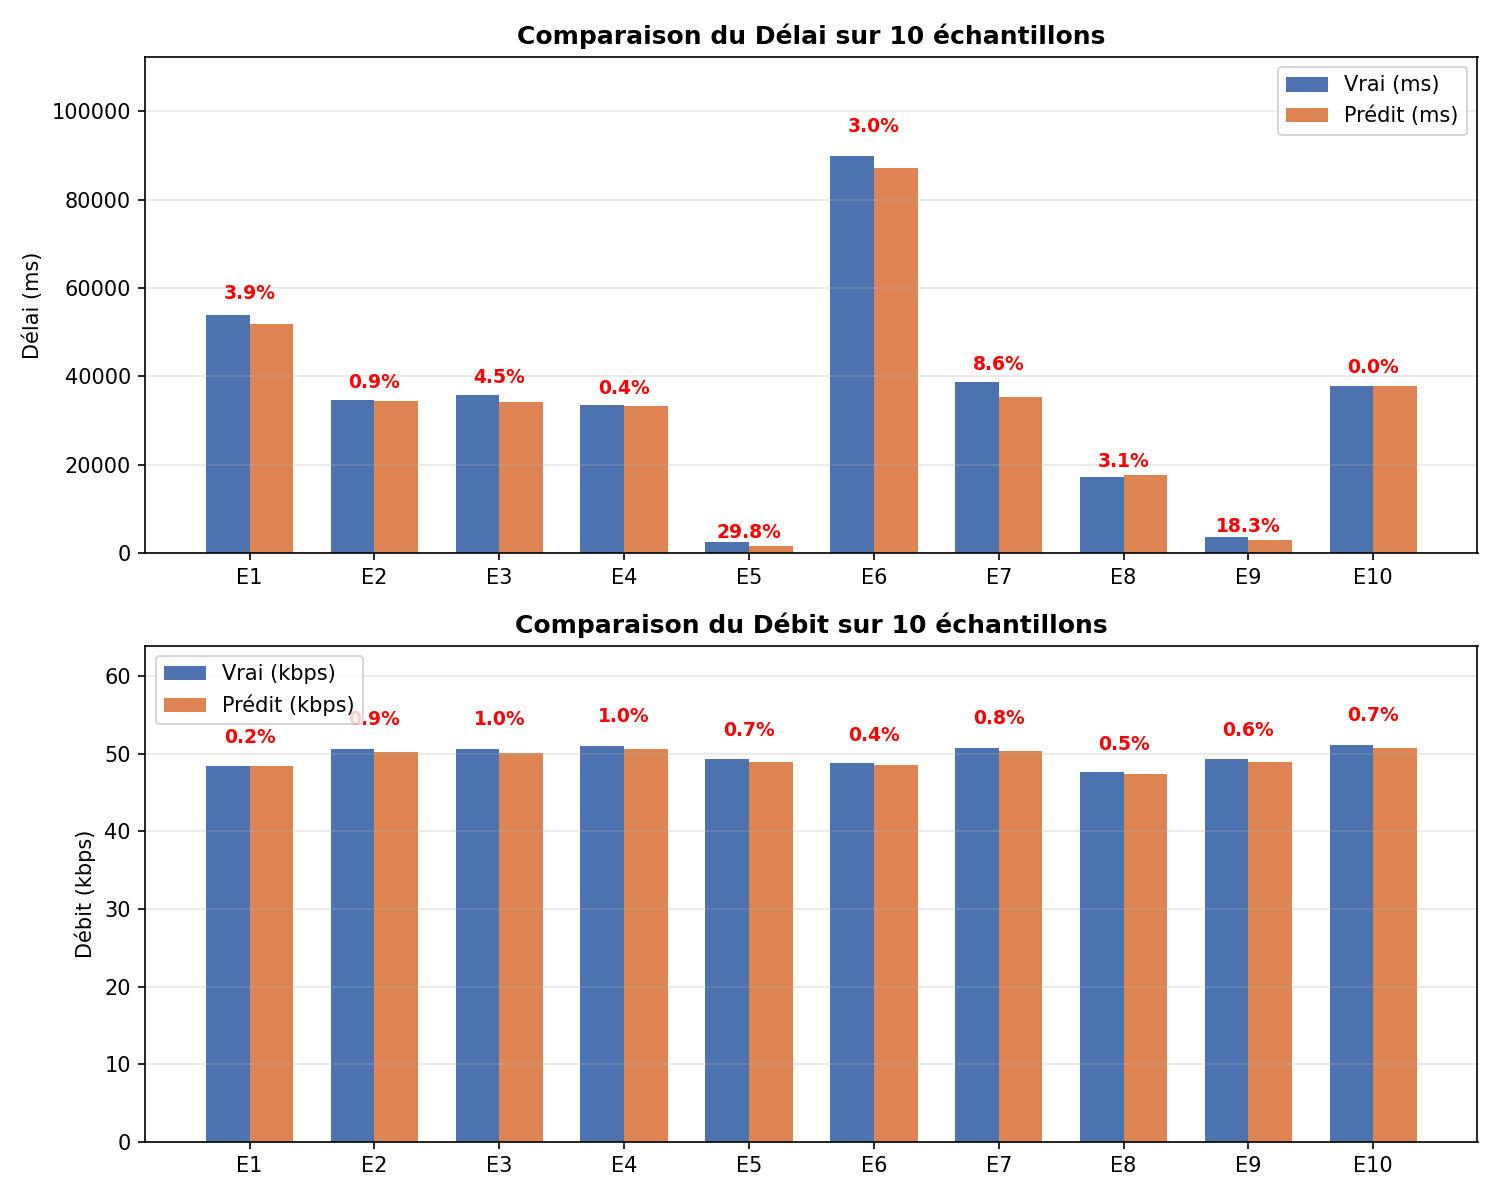
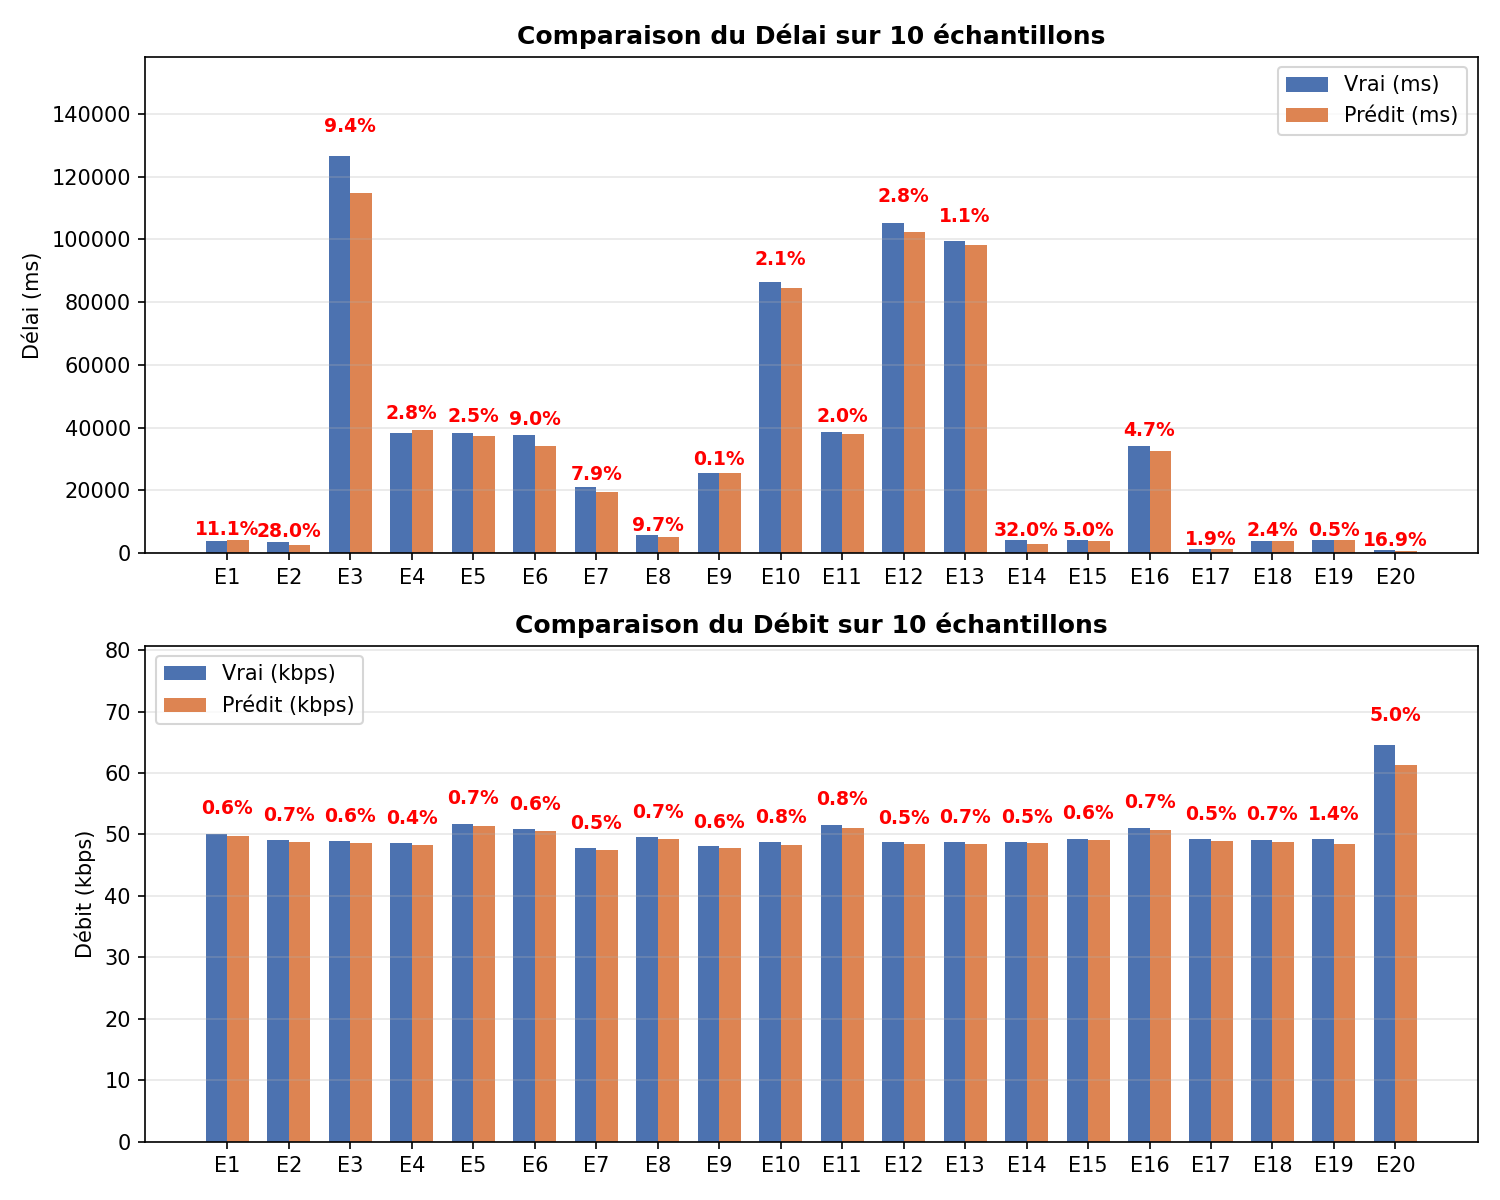
eval gen

diff --git a/eval_delay_general.py b/eval_delay_general.py
@@ -1,0 +1,88 @@
+import os
+import torch
+import numpy as np
+from torch.utils.data import DataLoader
+from tqdm import tqdm
+
+from wireless_gnn.model import WirelessNetFermi
+from wireless_gnn.dataset import build_datasets, collate_fn
+from wireless_gnn.train import predict
+
+def main():
+    print("=" * 60)
+    print("  Évaluation Générale du Modèle : Délai")
+    print("=" * 60)
+
+    device = torch.device("cuda" if torch.cuda.is_available() else "cpu")
+    checkpoint_path = "wireless_gnn/checkpoints/delay/best.pt"
+
+    if not os.path.exists(checkpoint_path):
+        print(f"[!] Checkpoint introuvable : {checkpoint_path}")
+        return
+
+    # Load Model
+    model = WirelessNetFermi(
+        hidden_dim=64,
+        num_heads=4,
+        iterations=8,
+        target="delay"
+    ).to(device)
+
+    state_dict = torch.load(checkpoint_path, map_location=device, weights_only=True)
+    if "model" in state_dict:
+        model.load_state_dict(state_dict["model"])
+    else:
+        model.load_state_dict(state_dict)
+    model.eval()
+    print("Modèle 'Delay' chargé avec succès.\n")
+
+    # Load Data
+    _, _, test_ds, norm = build_datasets(".")
+    if len(test_ds) == 0:
+        print("Erreur : Le dataset de test est vide.")
+        return
+
+    test_loader = DataLoader(test_ds, batch_size=1, shuffle=False, collate_fn=collate_fn)
+
+    print(f"Évaluation sur le test set complet ({len(test_ds)} échantillons)...")
+
+    true_list = []
+    pred_list = []
+
+    with torch.no_grad():
+        for batch in tqdm(test_loader, desc="Evaluation"):
+            for graph in batch:
+                res = predict(model, graph, norm, device)
+                true_vals = res["delay_true"] * 1000  # convert to ms
+                pred_vals = res["delay_pred"] * 1000  # convert to ms
+                
+                # append each flow's true and pred
+                true_list.extend(true_vals.tolist())
+                pred_list.extend(pred_vals.tolist())
+
+    true_arr = np.array(true_list)
+    pred_arr = np.array(pred_list)
+
+    # Compute metrics
+    mae = np.mean(np.abs(true_arr - pred_arr))
+    rmse = np.sqrt(np.mean((true_arr - pred_arr)**2))
+    mape = np.mean(np.abs((true_arr - pred_arr) / (np.abs(true_arr) + 1e-6))) * 100
+    
+    # R2 Score
+    ss_res = np.sum((true_arr - pred_arr)**2)
+    ss_tot = np.sum((true_arr - np.mean(true_arr))**2)
+    r2 = 1 - (ss_res / (ss_tot + 1e-6))
+
+    print("\n" + "=" * 60)
+    print("RÉSULTATS DE L'ÉVALUATION GÉNÉRALE (Test Set)")
+    print("=" * 60)
+    print(f"  Nombre de graphes (snapshots) : {len(test_ds)}")
+    print(f"  Nombre total de flux évalués  : {len(true_arr)}")
+    print(f"  MAE (Mean Abs Error)          : {mae:.3f} ms")
+    print(f"  RMSE                          : {rmse:.3f} ms")
+    print(f"  MAPE                          : {mape:.3f} %")
+    print(f"  R² Score                      : {r2:.4f}")
+    print("=" * 60)
+
+if __name__ == "__main__":
+    main()

diff --git a/eval_samples.py b/eval_samples.py
@@ -66,7 +66,7 @@ def main():
         return
 
     # 3. Tirer 10 échantillons aléatoires du dataset de test
-    n_samples = min(10, len(test_ds))
+    n_samples = min(20, len(test_ds))
     # On sélectionne les indices aléatoires
     indices = random.sample(range(len(test_ds)), n_samples)
     
